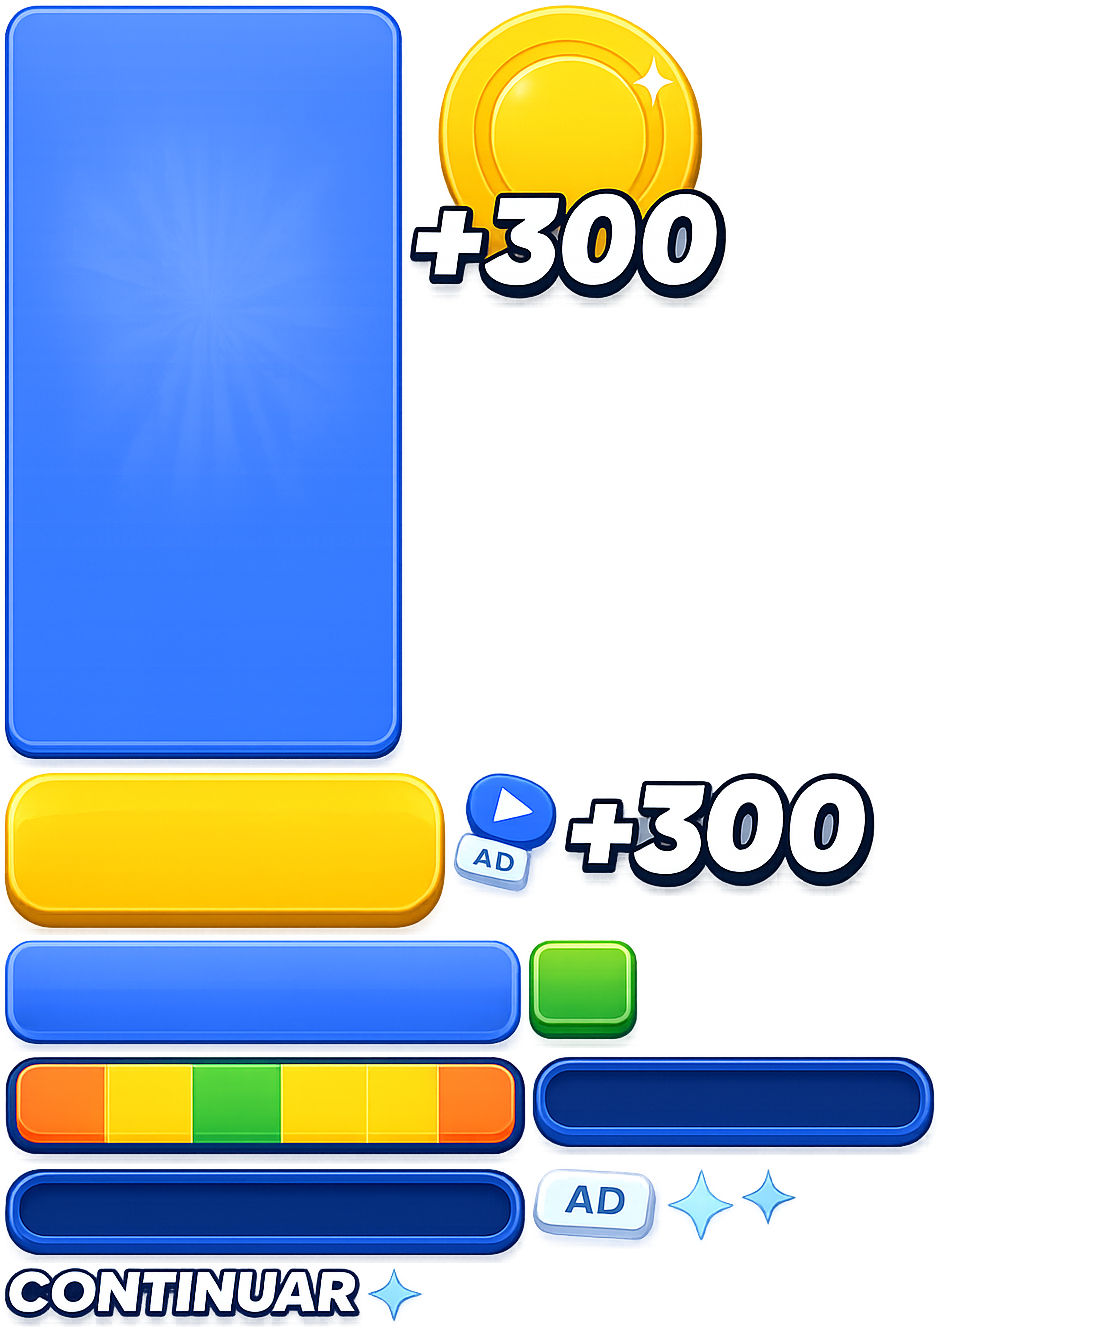
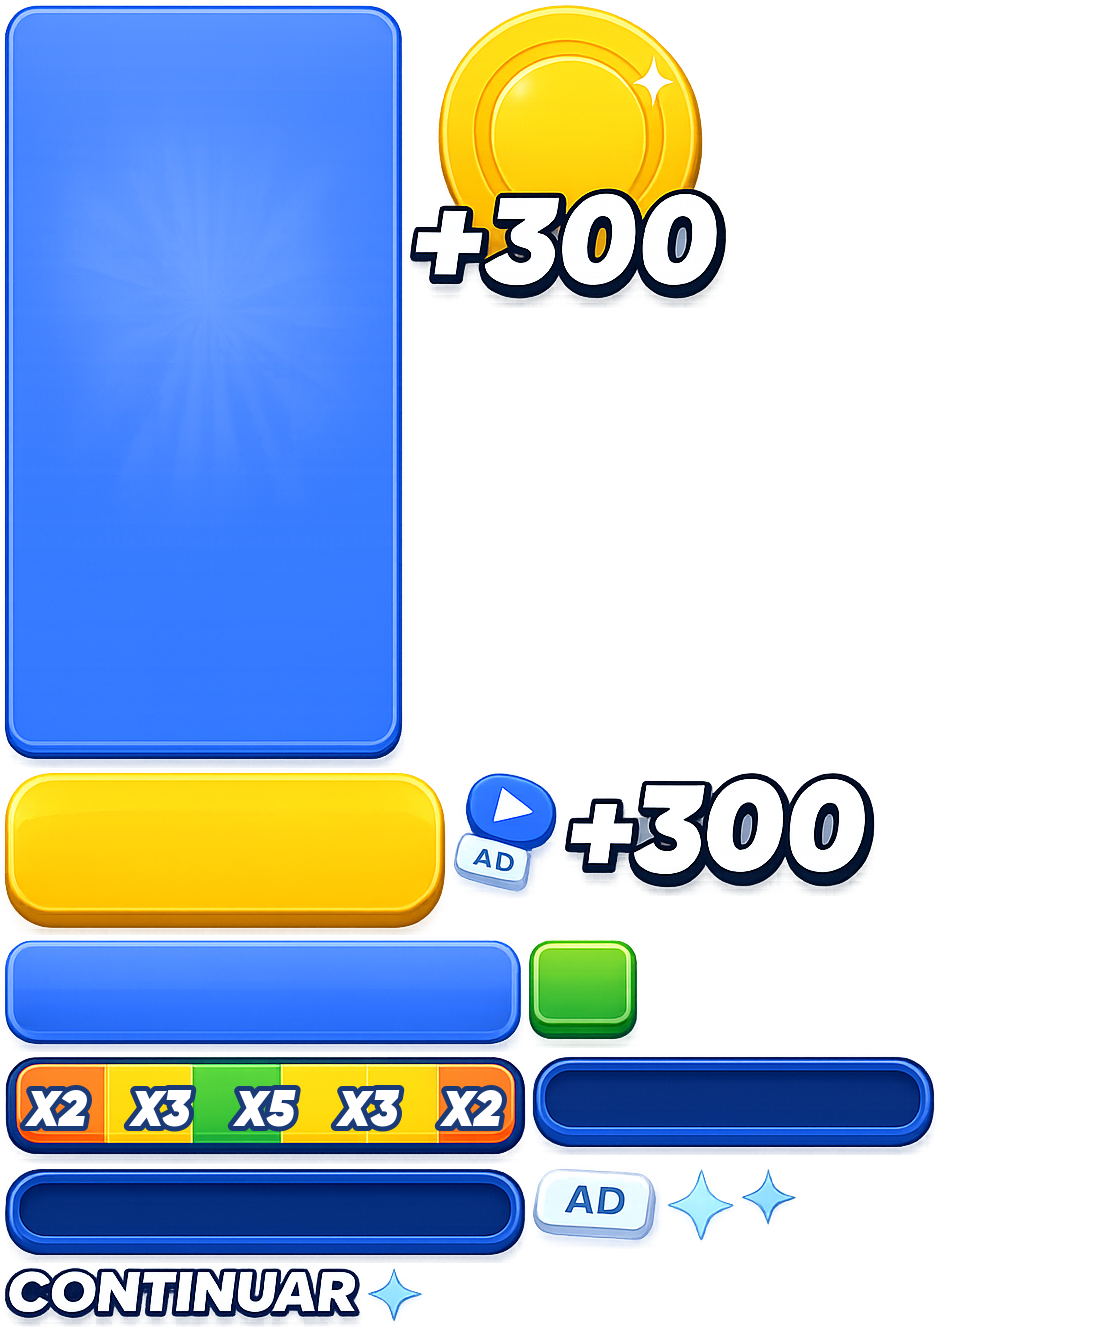
Add files via upload

diff --git a/js/game.js b/js/game.js
@@ -2667,7 +2667,7 @@ getAssetImage("pak1"),getAssetImageFrames("pak1"),"coin_button.png");this.btnCla
 this.imgPayAd.transformCenterX=.5;this.imgPayAd.transformCenterY=.5;this.imgPayAd.isPointerBlocker=!1;this.imgPayAd.isHitTestVisible=!1;this.imgPayAd.leftInPixels=this.btnClaim.leftInPixels+145;this.imgPayAd.topInPixels=this.btnClaim.topInPixels-45;this.imgPayAd.rotation=DegToRad(20);this.imgPayAd.horizontalAlignment=BABYLON.GUI.Control.HORIZONTAL_ALIGNMENT_CENTER;this.imgPayAd.verticalAlignment=BABYLON.GUI.Control.VERTICAL_ALIGNMENT_CENTER;this.imgPayAd.scaleX=this.imgPayAd.scaleY=.75;SetImageFromSpritesheet(this.imgPayAd,
 getAssetImage("pak1"),getAssetImageFrames("pak1"),"icon_watch_ad.png");a.addControl(this.imgPayAd);this.btnClaim.setText("+200");this.btnDismiss=BABYLON.GUI.Button.CreateImageWithCenterTextButton("btnDismiss","Dismiss");this.btnDismiss.children[0].transformCenterY=.5;this.btnDismiss.children[0].transformCenterX=.5;this.btnDismiss.children[0].horizontalAlignment=BABYLON.GUI.Control.HORIZONTAL_ALIGNMENT_CENTER;this.btnDismiss.children[0].verticalAlignment=BABYLON.GUI.Control.VERTICAL_ALIGNMENT_CENTER;
 this.btnDismiss.children[1].fontFamily="gamefont";this.btnDismiss.children[1].fontSize="35px";this.btnDismiss.children[1].color="#ffffff";this.btnDismiss.children[1].shadowOffsetX=3;this.btnDismiss.children[1].shadowOffsetY=3;this.btnDismiss.children[1].shadowColor=TEXT_SHADOWS_ENABLED?"rgb(0,0,0, 0.8)":"rgba(80,80,80,0)";this.btnDismiss.children[1].shadowBlur=5;this.btnDismiss.children[1].outlineColor="rgb(0,0,0)";this.btnDismiss.children[1].outlineWidth=3;this.btnDismiss.children[1].lineSpacing=
-5;this.btnDismiss.transformCenterX=.5;this.btnDismiss.transformCenterY=.5;this.btnDismiss.topInPixels=b+150;this.btnDismiss.leftInPixels=0;a.addControl(this.btnDismiss);SetImageFromSpritesheet(this.btnDismiss.children[0],getAssetImage("pak1"),getAssetImageFrames("pak1"),"button_green_top.png");ResetGuiButtonAppearance(this.btnDismiss,this.btnDismiss.children[0].sourceWidth,this.btnDismiss.children[0].sourceHeight);this.btnDismiss.children[0].isVisible=!1;this.btnDismiss.onPointerClickObservable.add(this.onDismissPressed)},
+5;this.btnDismiss.transformCenterX=.5;this.btnDismiss.transformCenterY=.5;this.btnDismiss.topInPixels=b+240;this.btnDismiss.leftInPixels=0;a.addControl(this.btnDismiss);SetImageFromSpritesheet(this.btnDismiss.children[0],getAssetImage("pak1"),getAssetImageFrames("pak1"),"button_green_top.png");ResetGuiButtonAppearance(this.btnDismiss,this.btnDismiss.children[0].sourceWidth,this.btnDismiss.children[0].sourceHeight);this.btnDismiss.children[0].isVisible=!1;this.btnDismiss.onPointerClickObservable.add(this.onDismissPressed)},
 updateTexts:function(){this.txtTitle.text=STR("LEVEL")+" "+(ActiveLevel+1);this.txtCompleted.text=STR("COMPLETED");this.btnDismiss.children[1].text=STR("CONTINUE");var a=this.btnClaim.children[1]._fontSize._value/50;this.btnClaim.children[1].lineSpacing=-10*a;this.btnClaim.children[1].topInPixels=-10*a;0<this.btnClaim.children[1].text.indexOf("\n")&&(this.btnClaim.children[1].topInPixels=-5*a)},updateData:function(){},onDismissPressed:function(){Buttons.enabled&&(inlHelper.ads.triggerAdPoint({adType:AD_TYPES.GAME_OVER}),
 soundManager.playSound("button"),Buttons.enabled=!1,"undefined"!==typeof gdsdk&&"undefined"!==gdsdk.showAd&&gdsdk.showAd(),screenLevelCompletedADs._claimRewardAndStartNextLevel(screenLevelCompletedADs.SCORE))},onClaimPressed:function(){Buttons.enabled&&(soundManager.playSound("button"),Buttons.enabled=!1,this.resultPriceClaimed=!0,RewardAds.showRewAd(activeScene.scene,function(){screenLevelCompletedADs._claimRewardAndStartNextLevel(screenLevelCompletedADs.SCORE*screenLevelCompletedADs.scoreMultiply)},
 function(){Buttons.enabled=!0;screenLevelCompletedADs.resultPriceClaimed=!1},this))},_claimRewardAndStartNextLevel:function(a){var b=this.btnClaim.transformedMeasure;screenTopPanel.animateEarnedCoins(a,b.left+b.width/2-engineRenderWidth/2,b.top+b.height/2-engineRenderHeight/2,1.3);Buttons.enabled=!1;ActiveLevel++;try{screenTopPanel&&screenTopPanel.updateData&&screenTopPanel.updateData()}catch(e){}SavedGame=null;GameData.Save();screenGame.resetGame();screenGame.updateData();soundManager.playMusic("music_ingame");screenGame.guiRoot.isVisible=!0;screenLevelCompletedADs.hideScene(function(){activeScene.gameRunning=
@@ -2676,7 +2676,7 @@ Resolution.SCALE,SCENE_TRANSITION_DURATION,b,1,!1);CommonAnimations.AnimateObjec
 1;this.SCORE=0;disableButton(this.btnDismiss);this.btnDismiss.alpha=0;this.btnDismiss.isVisible=!1;this.anmtblDismissButton=null;var b={func:BABYLON.CircleEase,mode:BABYLON.EasingFunction.EASINGMODE_EASEOUT};CommonAnimations.AnimateObjectProperty(this.guiRoot,"topInPixels",0,SCENE_TRANSITION_DURATION,b,1,!1);CommonAnimations.AnimateObjectProperty(this.guiRoot,"alpha",1,SCENE_TRANSITION_DURATION,b,1,!1,function(){null!=a&&a();setTimeout(function(){screenLevelCompletedADs.btnDismiss.isVisible=!0;screenLevelCompletedADs.anmtblDismissButton=
 CommonAnimations.AnimateObjectProperty(screenLevelCompletedADs.btnDismiss,"alpha",1,SCENE_TRANSITION_DURATION,BABYLON.CubicEase,2,!1,function(){enableButton(screenLevelCompletedADs.btnDismiss)})}.bind(this),1500);var e={func:BABYLON.CircleEase,mode:BABYLON.EasingFunction.EASINGMODE_EASEIN};CommonAnimations.AnimateObjectProperty(this,"SCORE",getLevelReward(ActiveLevel),150,e,1,!1,null);screenLevelCompletedADs.enableControls()}.bind(this))},beforeRender:function(){this.pnlRoot.isVisible&&(this.updateShines(),
 this.updateMultiplyArrow())},updateShines:function(){this.imgShine1.rotation+=DegToRad(.4)*activeScene.getCpuSpeedMul();this.imgShine2.rotation-=DegToRad(.4)*activeScene.getCpuSpeedMul()},updateMultiplyArrow:function(){if(!this.resultPriceClaimed){var a=activeScene.deltaTime/16.6666;this.imgMultiplyArrow.isVisible&&(this.muliplyArrowOffset+=a/40);a=Math.abs(this.muliplyArrowOffset%2);a=easeInOutSine(a);this.imgMultiplyArrow.leftInPixels=(a-.5)*(this.imgMultiplyBg.widthInPixels-50);a=Math.abs(Math.floor(1E3*
-(a-.5)));this.scoreMultiply=5;74<a&&(this.scoreMultiply=3);272<a&&(this.scoreMultiply=2);a=this.scoreMultiply*this.SCORE;this.btnClaim.setText("+"+a)}},onResize:function(){if(this.guiRoot.isVisible){var a=engine.getRenderWidth(),b=engine.getRenderHeight();this.imgBackground.resize(a,b);a>b?this.pnlLevelCompletedADs.scaleTo(.8*Resolution.SCALE):(this.pnlLevelCompletedADs.scaleTo(1.2*Resolution.SCALE),1E3*this.pnlLevelCompletedADs.scaleY>b&&this.pnlLevelCompletedADs.scaleTo(b/1E3));this.pnlLevelCompletedADs.topInPixels=
+(a-.5)));this.scoreMultiply=5;74<a&&(this.scoreMultiply=3);272<a&&(this.scoreMultiply=2);a=this.scoreMultiply*this.SCORE;this.btnClaim.setText("+"+a);this.txtRewardValue.text="+"+a}},onResize:function(){if(this.guiRoot.isVisible){var a=engine.getRenderWidth(),b=engine.getRenderHeight();this.imgBackground.resize(a,b);a>b?this.pnlLevelCompletedADs.scaleTo(.8*Resolution.SCALE):(this.pnlLevelCompletedADs.scaleTo(1.2*Resolution.SCALE),1E3*this.pnlLevelCompletedADs.scaleY>b&&this.pnlLevelCompletedADs.scaleTo(b/1E3));this.pnlLevelCompletedADs.topInPixels=
 40*Resolution.SCALE;this.resizeShadows()}},resizeShadows:function(){var a=this.txtTitle._fontSize._value/55;this.txtTitle.shadowOffsetX=getShadowOffs(0);this.txtTitle.shadowOffsetY=getShadowOffs(5*a);a=this.txtCompleted._fontSize._value/40;this.txtCompleted.shadowOffsetX=getShadowOffs(0);this.txtCompleted.shadowOffsetY=getShadowOffs(5*a);this.txtCompleted.outlineWidth=6*a;a=this.txtRewardValue._fontSize._value/50;this.txtRewardValue.shadowOffsetX=getShadowOffs(0);this.txtRewardValue.shadowOffsetY=
 getShadowOffs(5*a);this.txtRewardValue.outlineWidth=5*a;a=this.btnClaim.children[1]._fontSize._value/40;this.btnClaim.children[1].shadowOffsetX=getShadowOffs(0);this.btnClaim.children[1].shadowOffsetY=getShadowOffs(2*a);this.btnClaim.children[1].outlineWidth=getShadowOffs(4*a);a=this.btnDismiss.children[1]._fontSize._value/35;this.btnDismiss.children[1].shadowOffsetX=getShadowOffs(0);this.btnDismiss.children[1].shadowOffsetY=getShadowOffs(2*a);this.btnDismiss.children[1].outlineWidth=getShadowOffs(4*
 a)}};var ScreenLevelFailed=function(a){ScreenLevelFailed.instance=this;this.create(a)};ScreenLevelFailed.instance=null;